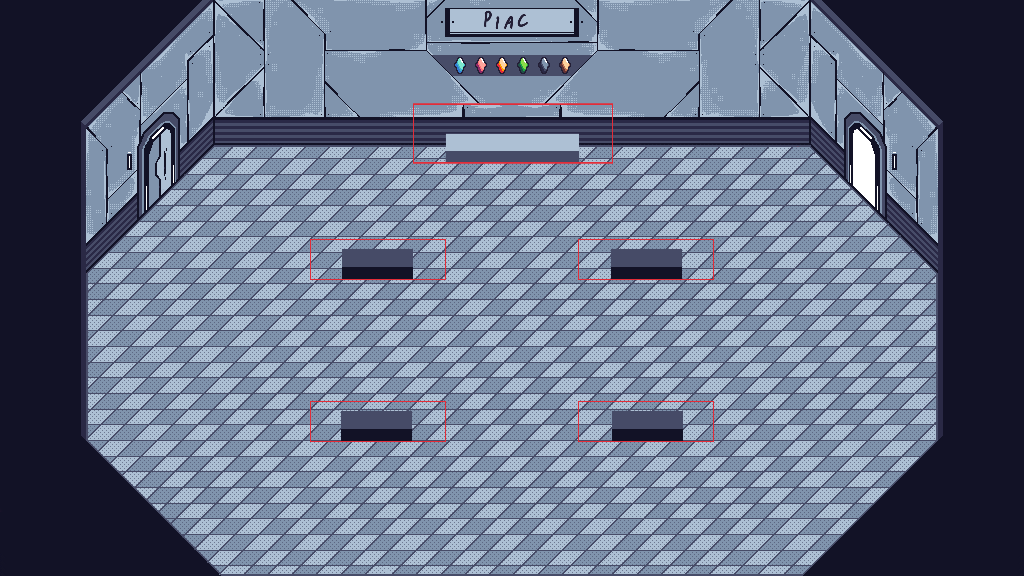
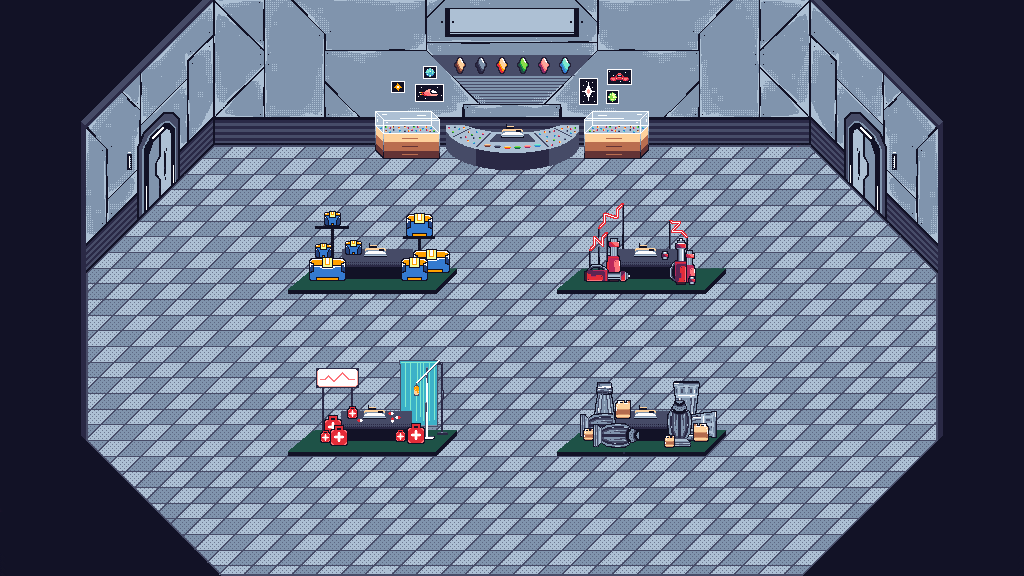
trade

diff --git a/src/trade.cpp b/src/trade.cpp
@@ -3,121 +3,83 @@
 #include <game/trade.hpp>
 
 trade::trade(float x, float y, trade_type trade_type)
-    : _button(x + 150, y + 75, wze::camera::focus() * 0.9f, 0, 100, 50, true,
-              std::numeric_limits<uint8_t>::max(),
-              {{-50, 25}, {-50, -25}, {50, -25}, {50, 25}},
-              assets::placeholder_texture(), assets::shop_background_texture(),
-              assets::space_texture(), "Vásárol", 0, 0, 0) {
+    : _button(x + 147.5f, y + 120, wze::camera::focus() * 0.9f, 0, 270, 70,
+              true, std::numeric_limits<uint8_t>::max(),
+              {{-135, 35}, {-135, -35}, {135, -35}, {135, 35}},
+              assets::button_none_texture(), assets::button_hovered_texture(),
+              assets::button_hovered_texture(), "Vásárol", 0, 0, 0) {
+    std::shared_ptr<wze::image> image;
+
     _trade_type = trade_type;
-    _background = {x,
-                   y,
-                   wze::camera::focus() * 0.9f,
-                   0,
-                   600,
-                   300,
-                   true,
-                   assets::placeholder_texture(),
-                   0,
-                   0,
-                   0,
-                   std::numeric_limits<uint8_t>::max() / 2};
-    _level1 = {_background.x() - 150,
-               _background.y(),
-               _background.z(),
-               0,
-               50,
-               50,
-               true};
-    _level2 = {
-        _background.x(), _background.y(), _background.z(), 0, 50, 50, true};
-    _level3 = {_background.x() + 150,
-               _background.y(),
-               _background.z(),
-               0,
-               50,
-               50,
-               true};
+    _background = {x,   y,    wze::camera::focus() * 0.9f,       0, 725,
+                   390, true, assets::trade_background_texture()};
 
     switch (_trade_type) {
     case TRADE_TYPE_ARMOR:
-        _level = save_data::player_ship_hitpoints_tier;
-        _set_level = save_data::set_player_ship_hitpoints_tier;
+        image = wze::assets::create_image(
+            "Extra kemény\nűrpáncélzat, mely\nhatékonyan védi hajódat\naz "
+            "űrbanditák\ntámadásaitól.\nNem bánod meg!",
+            assets::normal_font());
+        _tier = save_data::player_ship_hitpoints_tier;
+        _set_tier = save_data::set_player_ship_hitpoints_tier;
         break;
     case TRADE_TYPE_ENGINE:
-        _level = save_data::player_ship_speed_tier;
-        _set_level = save_data::set_player_ship_speed_tier;
+        image = wze::assets::create_image(
+            "Gyorsabb hajtómű,\ngyorsabb bányászás,\nmagasabb órabér!\nVálassz "
+            "szomszédos\nrendszerekből importált\nhajtóműveink közül!",
+            assets::normal_font());
+        _tier = save_data::player_ship_speed_tier;
+        _set_tier = save_data::set_player_ship_speed_tier;
         break;
     case TRADE_TYPE_STORAGE:
-        _level = save_data::player_ship_storage_tier;
-        _set_level = save_data::set_player_ship_storage_tier;
+        image = wze::assets::create_image(
+            "Ha úgy érzed\nűrhajód folyton tele,\nnem férnek el\na "
+            "rakományaid\nakkor ideje\nrakteret növelni!",
+            assets::normal_font());
+        _tier = save_data::player_ship_storage_tier;
+        _set_tier = save_data::set_player_ship_storage_tier;
         break;
     case TRADE_TYPE_CANNON:
-        _level = save_data::player_ship_damage_tier;
-        _set_level = save_data::set_player_ship_damage_tier;
+        image = wze::assets::create_image(
+            "Nincs biztonságos\nbányászás elrettentő\ntűzerő nélkül, vegyél\n"
+            "tőlem extra erős\nlézer ágyúkat, hogy\nmegvédhesd magad!",
+            assets::normal_font());
+        _tier = save_data::player_ship_damage_tier;
+        _set_tier = save_data::set_player_ship_damage_tier;
         break;
     }
 
-    switch (_level()) {
-    case 0:
-        _level1.set_texture(assets::placeholder_texture());
-        _level2.set_texture(assets::placeholder_texture());
-        _level3.set_texture(assets::placeholder_texture());
-        _price = 1000;
-        break;
-    case 1:
-        _level1.set_texture(assets::asteroids_ruby_gem_texture());
-        _level2.set_texture(assets::placeholder_texture());
-        _level3.set_texture(assets::placeholder_texture());
-        _price = 2000;
-        break;
-    case 2:
-        _level1.set_texture(assets::asteroids_ruby_gem_texture());
-        _level2.set_texture(assets::asteroids_ruby_gem_texture());
-        _level3.set_texture(assets::placeholder_texture());
-        _price = 3000;
-        break;
-    default:
-        _level1.set_texture(assets::asteroids_ruby_gem_texture());
-        _level2.set_texture(assets::asteroids_ruby_gem_texture());
-        _level3.set_texture(assets::asteroids_ruby_gem_texture());
-        _price = 0;
-        break;
-    }
+    _tier_sprite = {x - 145, y + 42.5f, wze::camera::focus() * 0.9f, 0, 165,
+                    25,      true};
+    _price = 0;
+    _price_sprite = {x - 147.5f, y + 115, wze::camera::focus() * 0.9f, 0, 270,
+                     70,         true};
+    _text_sprite = {x + 142.5f,
+                    y - 50,
+                    wze::camera::focus() * 0.9f,
+                    0,
+                    290,
+                    (float)image->h / (float)image->w * 290,
+                    true,
+                    wze::assets::create_texture(image)};
 }
 
 void trade::update() {
+    std::shared_ptr<wze::image> image;
+
     _button.update();
 
-    if (_button.state() & BUTTON_STATE_POSTCLICK && _level() < 3 &&
+    if (_button.state() & BUTTON_STATE_POSTCLICK && _tier() < 3 &&
         _price <= save_data::player_money()) {
-        _set_level(_level() + 1);
+        _set_tier(_tier() + 1);
         save_data::set_player_money(save_data::player_money() - _price);
     }
 
-    switch (_level()) {
-    case 0:
-        _level1.set_texture(assets::placeholder_texture());
-        _level2.set_texture(assets::placeholder_texture());
-        _level3.set_texture(assets::placeholder_texture());
-        _price = 1000;
-        break;
-    case 1:
-        _level1.set_texture(assets::asteroids_ruby_gem_texture());
-        _level2.set_texture(assets::placeholder_texture());
-        _level3.set_texture(assets::placeholder_texture());
-        _price = 2000;
-        break;
-    case 2:
-        _level1.set_texture(assets::asteroids_ruby_gem_texture());
-        _level2.set_texture(assets::asteroids_ruby_gem_texture());
-        _level3.set_texture(assets::placeholder_texture());
-        _price = 3000;
-        break;
-    default:
-        _level1.set_texture(assets::asteroids_ruby_gem_texture());
-        _level2.set_texture(assets::asteroids_ruby_gem_texture());
-        _level3.set_texture(assets::asteroids_ruby_gem_texture());
-        _price = 0;
-        break;
-    }
+    _tier_sprite.set_texture(assets::trade_tier_textures().at(_tier()));
+    _price = (_tier() + 1) * 1000;
+
+    image = wze::assets::create_image(std::to_string(_price) + '$',
+                                      assets::bold_font());
+    _price_sprite.set_width((float)image->w / (float)image->h * 70);
+    _price_sprite.set_texture(wze::assets::create_texture(image));
 }

diff --git a/src/assets.cpp b/src/assets.cpp
@@ -6,6 +6,9 @@ std::shared_ptr<wze::font> assets::_bold_font;
 std::shared_ptr<wze::texture> assets::_placeholder_texture;
 std::shared_ptr<wze::texture> assets::_space_texture;
 
+std::shared_ptr<wze::texture> assets::_button_none_texture;
+std::shared_ptr<wze::texture> assets::_button_hovered_texture;
+
 std::shared_ptr<wze::texture> assets::_player_ship_base_texture;
 std::shared_ptr<wze::texture> assets::_player_ship_crosshair_texture;
 std::shared_ptr<wze::texture> assets::_player_ship_warning_texture;
@@ -78,6 +81,9 @@ std::shared_ptr<wze::texture> assets::_shop_background_texture;
 std::vector<std::shared_ptr<wze::texture>> assets::_shop_door_animation;
 std::shared_ptr<wze::texture> assets::_shop_door_light_texture;
 
+std::shared_ptr<wze::texture> assets::_trade_background_texture;
+std::vector<std::shared_ptr<wze::texture>> assets::_trade_tier_textures;
+
 std::shared_ptr<wze::texture> assets::_hangar_background_texture;
 
 std::shared_ptr<wze::sound> assets::_space_ambiance_music_sound;
@@ -107,6 +113,14 @@ std::shared_ptr<wze::texture> const& assets::placeholder_texture() {
 
 std::shared_ptr<wze::texture> const& assets::space_texture() {
     return _space_texture;
+}
+
+std::shared_ptr<wze::texture> const& assets::button_none_texture() {
+    return _button_none_texture;
+}
+
+std::shared_ptr<wze::texture> const& assets::button_hovered_texture() {
+    return _button_hovered_texture;
 }
 
 std::shared_ptr<wze::texture> const& assets::player_ship_base_texture() {
@@ -325,6 +339,15 @@ std::shared_ptr<wze::texture> const& assets::shop_door_light_texture() {
     return _shop_door_light_texture;
 }
 
+std::shared_ptr<wze::texture> const& assets::trade_background_texture() {
+    return _trade_background_texture;
+}
+
+std::vector<std::shared_ptr<wze::texture>> const&
+assets::trade_tier_textures() {
+    return _trade_tier_textures;
+}
+
 std::shared_ptr<wze::texture> const& assets::hangar_background_texture() {
     return _hangar_background_texture;
 }
@@ -391,6 +414,11 @@ void assets::initialize() {
         wze::assets::load_image("./assets/placeholder.png"));
     _space_texture = wze::assets::create_texture(
         wze::assets::load_image("./assets/space.png"));
+
+    _button_none_texture = wze::assets::create_texture(
+        wze::assets::load_image("./assets/button/none.png"));
+    _button_hovered_texture = wze::assets::create_texture(
+        wze::assets::load_image("./assets/button/hovered.png"));
 
     _player_ship_base_texture = wze::assets::create_texture(
         wze::assets::load_image("./assets/player_ship/base.png"));
@@ -899,6 +927,18 @@ void assets::initialize() {
             wze::assets::load_image("./assets/shop/door/13.png"))};
     _shop_door_light_texture = wze::assets::create_texture(
         wze::assets::load_image("./assets/shop/door/light.png"));
+
+    _trade_background_texture = wze::assets::create_texture(
+        wze::assets::load_image("./assets/trade/background.png"));
+    _trade_tier_textures = {
+        wze::assets::create_texture(
+            wze::assets::load_image("./assets/trade/tier/0.png")),
+        wze::assets::create_texture(
+            wze::assets::load_image("./assets/trade/tier/1.png")),
+        wze::assets::create_texture(
+            wze::assets::load_image("./assets/trade/tier/2.png")),
+        wze::assets::create_texture(
+            wze::assets::load_image("./assets/trade/tier/3.png"))};
 
     _hangar_background_texture = wze::assets::create_texture(
         wze::assets::load_image("./assets/hangar/background.png"));

diff --git a/include/game/assets.hpp b/include/game/assets.hpp
@@ -11,6 +11,9 @@ class assets final {
     static std::shared_ptr<wze::texture> _placeholder_texture;
     static std::shared_ptr<wze::texture> _space_texture;
 
+    static std::shared_ptr<wze::texture> _button_none_texture;
+    static std::shared_ptr<wze::texture> _button_hovered_texture;
+
     static std::shared_ptr<wze::texture> _player_ship_base_texture;
     static std::shared_ptr<wze::texture> _player_ship_crosshair_texture;
     static std::shared_ptr<wze::texture> _player_ship_warning_texture;
@@ -88,6 +91,9 @@ class assets final {
     static std::vector<std::shared_ptr<wze::texture>> _shop_door_animation;
     static std::shared_ptr<wze::texture> _shop_door_light_texture;
 
+    static std::shared_ptr<wze::texture> _trade_background_texture;
+    static std::vector<std::shared_ptr<wze::texture>> _trade_tier_textures;
+
     static std::shared_ptr<wze::texture> _hangar_background_texture;
 
     static std::shared_ptr<wze::sound> _space_ambiance_music_sound;
@@ -113,6 +119,9 @@ class assets final {
 
     static std::shared_ptr<wze::texture> const& placeholder_texture();
     static std::shared_ptr<wze::texture> const& space_texture();
+
+    static std::shared_ptr<wze::texture> const& button_none_texture();
+    static std::shared_ptr<wze::texture> const& button_hovered_texture();
 
     static std::shared_ptr<wze::texture> const& player_ship_base_texture();
     static std::shared_ptr<wze::texture> const& player_ship_crosshair_texture();
@@ -197,6 +206,10 @@ class assets final {
     static std::vector<std::shared_ptr<wze::texture>> const&
     shop_door_animation();
     static std::shared_ptr<wze::texture> const& shop_door_light_texture();
+
+    static std::shared_ptr<wze::texture> const& trade_background_texture();
+    static std::vector<std::shared_ptr<wze::texture>> const&
+    trade_tier_textures();
 
     static std::shared_ptr<wze::texture> const& hangar_background_texture();
 

diff --git a/src/player.cpp b/src/player.cpp
@@ -8,8 +8,11 @@ player::player() : collider({{{-40, 0}, {0, -40}, {40, 0}, {0, 40}}}, 0, 0, 0) {
         std::numeric_limits<uint8_t>::max() / 2,
         std::numeric_limits<uint8_t>::max() / 2,
         std::numeric_limits<uint8_t>::max(), wze::FLIP_NONE, true,
-        std::numeric_limits<uint8_t>::max(), true, 0, -40, 0, true, true, false,
+        std::numeric_limits<uint8_t>::max(), true, 0, -80, 0, true, true, false,
         false, false));
+
+    wze::camera::set_x(x());
+    wze::camera::set_y(y() - 80);
 
     components().push_back(_appearance);
     recompose();
@@ -36,7 +39,7 @@ void player::update() {
     }
 
     wze::camera::set_x(x());
-    wze::camera::set_y(y());
+    wze::camera::set_y(y() - 80);
 
     printf("%f, %f\n", (double)x(), (double)y());
 }

diff --git a/src/button.cpp b/src/button.cpp
@@ -33,11 +33,11 @@ button::button(float x, float y, float z, float angle, float width,
                    true,
                    priority};
     _text = {x,
-             y,
+             y - 0.1f * height,
              z,
              angle,
-             (float)image->w / (float)image->h * 0.6f * height,
-             0.6f * height,
+             (float)image->w / (float)image->h * 0.7f * height,
+             0.7f * height,
              spatial,
              wze::assets::create_texture(image),
              text_color_r,

diff --git a/include/game/trade.hpp b/include/game/trade.hpp
@@ -11,11 +11,11 @@ class trade final {
     trade_type _trade_type;
     uint16_t _price;
     wze::sprite _background;
-    std::function<uint8_t()> _level;
-    std::function<void(uint8_t)> _set_level;
-    wze::sprite _level1;
-    wze::sprite _level2;
-    wze::sprite _level3;
+    wze::sprite _tier_sprite;
+    wze::sprite _price_sprite;
+    wze::sprite _text_sprite;
+    std::function<uint8_t()> _tier;
+    std::function<void(uint8_t)> _set_tier;
     button _button;
 
   public:
